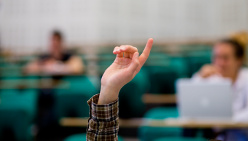
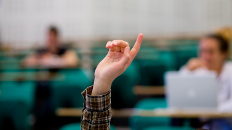
theme-fun: FAQ - Add menu & fit illustration

diff --git a/templates/static_templates/theme-help.html b/templates/static_templates/theme-help.html
@@ -15,6 +15,7 @@
       <h1>Aide</h1>
 
       <section class="category">
+      <a name="edx_basics_faq"></a>
         <h2>FUN : Premiers pas</h2>
         <article class="response">
           <h3>Comment puis-je m'inscrire à un cours&nbsp;?</h3>
@@ -73,6 +74,7 @@
 
 
       <section class="category">
+        <a name="classes_faq"></a>
         <h2>Les cours</h2>
 
         <article class="response">
@@ -161,6 +163,7 @@
 
 
       <section class="category">
+        <a name="other_help_faq"></a>
         <h2>Autres questions</h2>
 
         <article class="response">
@@ -214,6 +217,12 @@
 
       </section>
     </section>
+
+    <nav class="categories">
+      <a href="#edx_basics_faq">FUN : Premiers pas</a>
+      <a href="#classes_faq">Les cours</a>
+      <a href="#other_help_faq">Autres questions</a>
+    </nav>
   </section>
 </section>
 

diff --git a/static/sass/_fun.scss b/static/sass/_fun.scss
@@ -416,6 +416,7 @@ body .content-wrapper .help-page {
     .illustration {
         float: right;
         margin-top: -20px;
+        margin-right: 1px;
     }
 
     .faq .responses {
